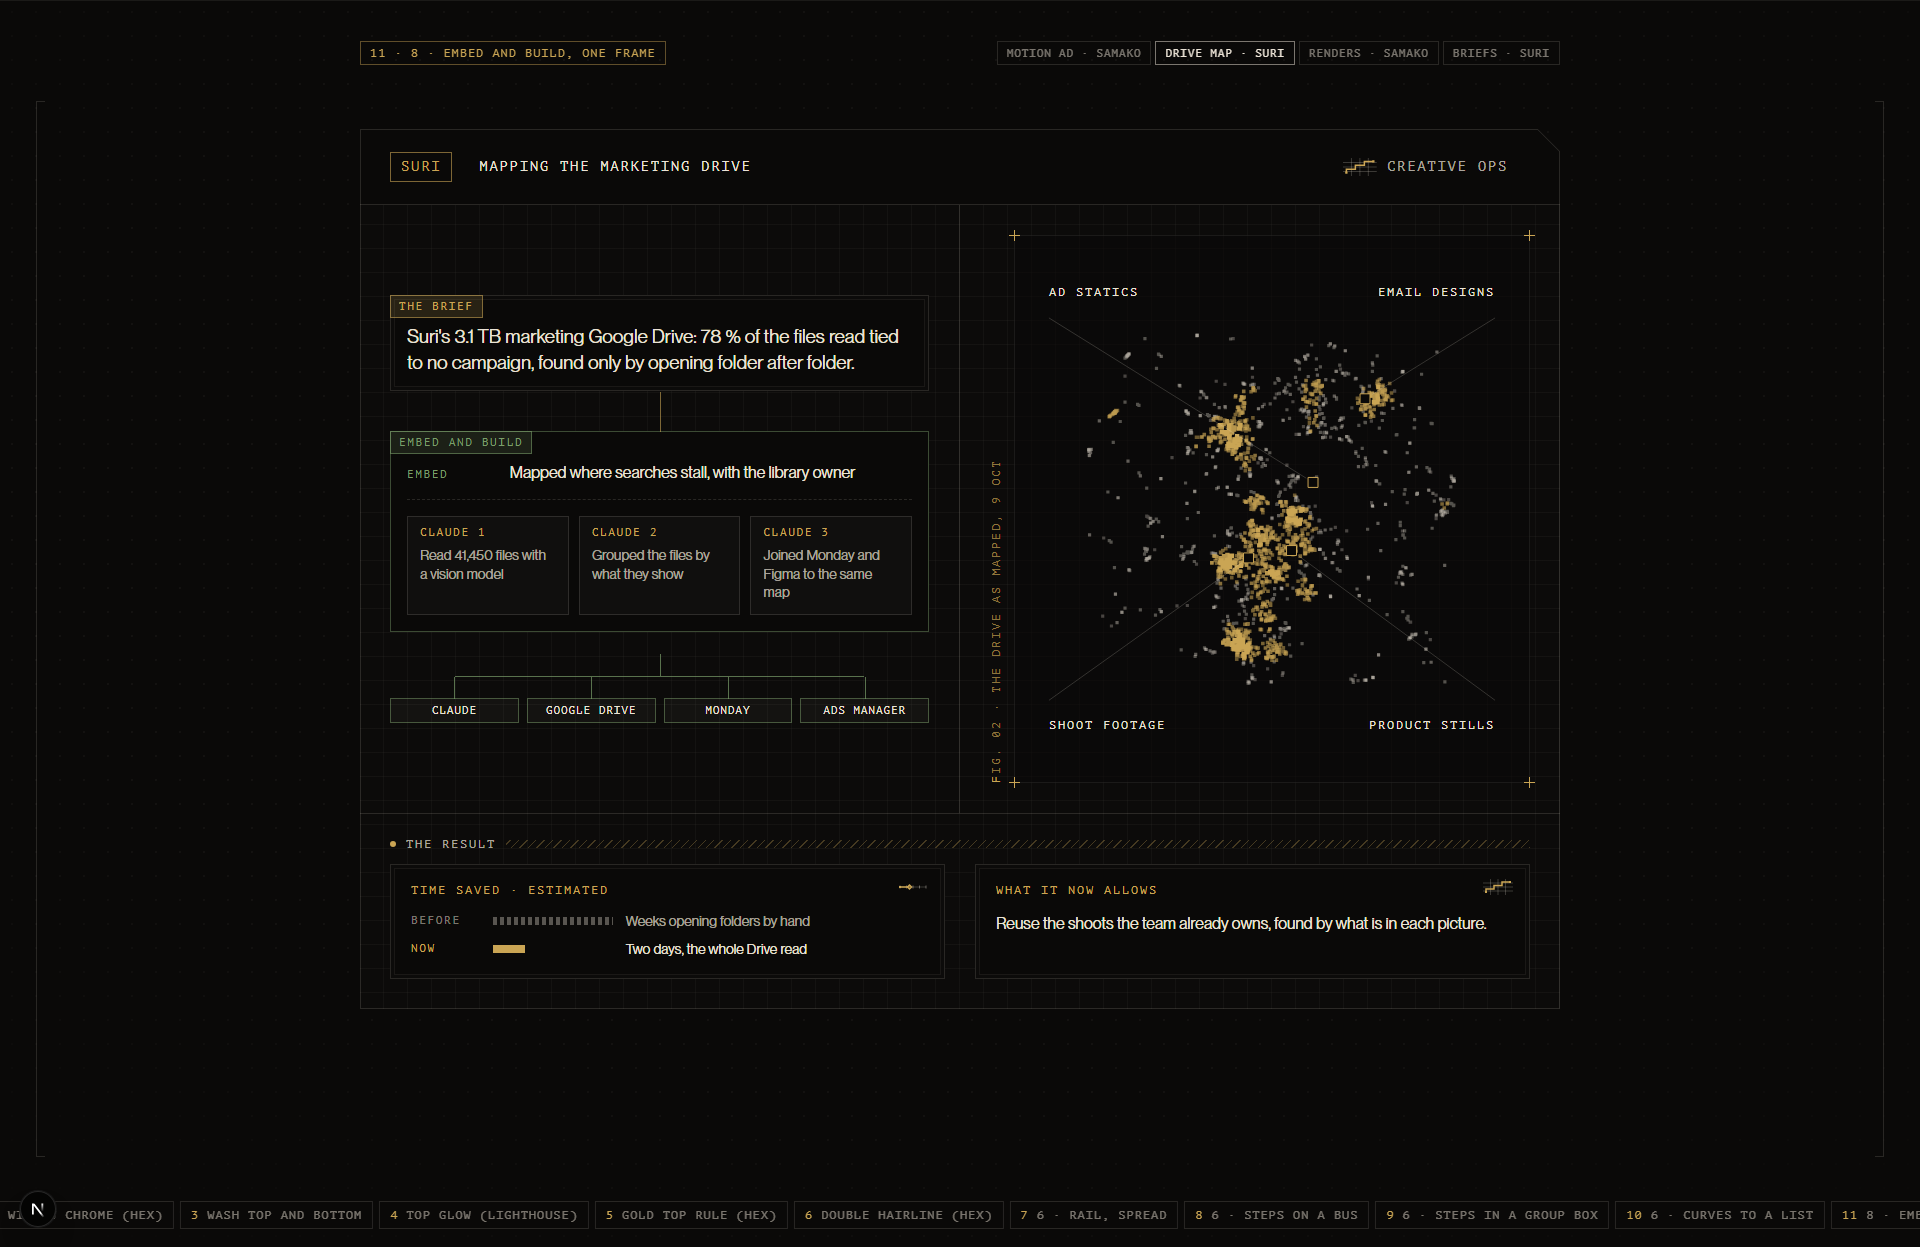
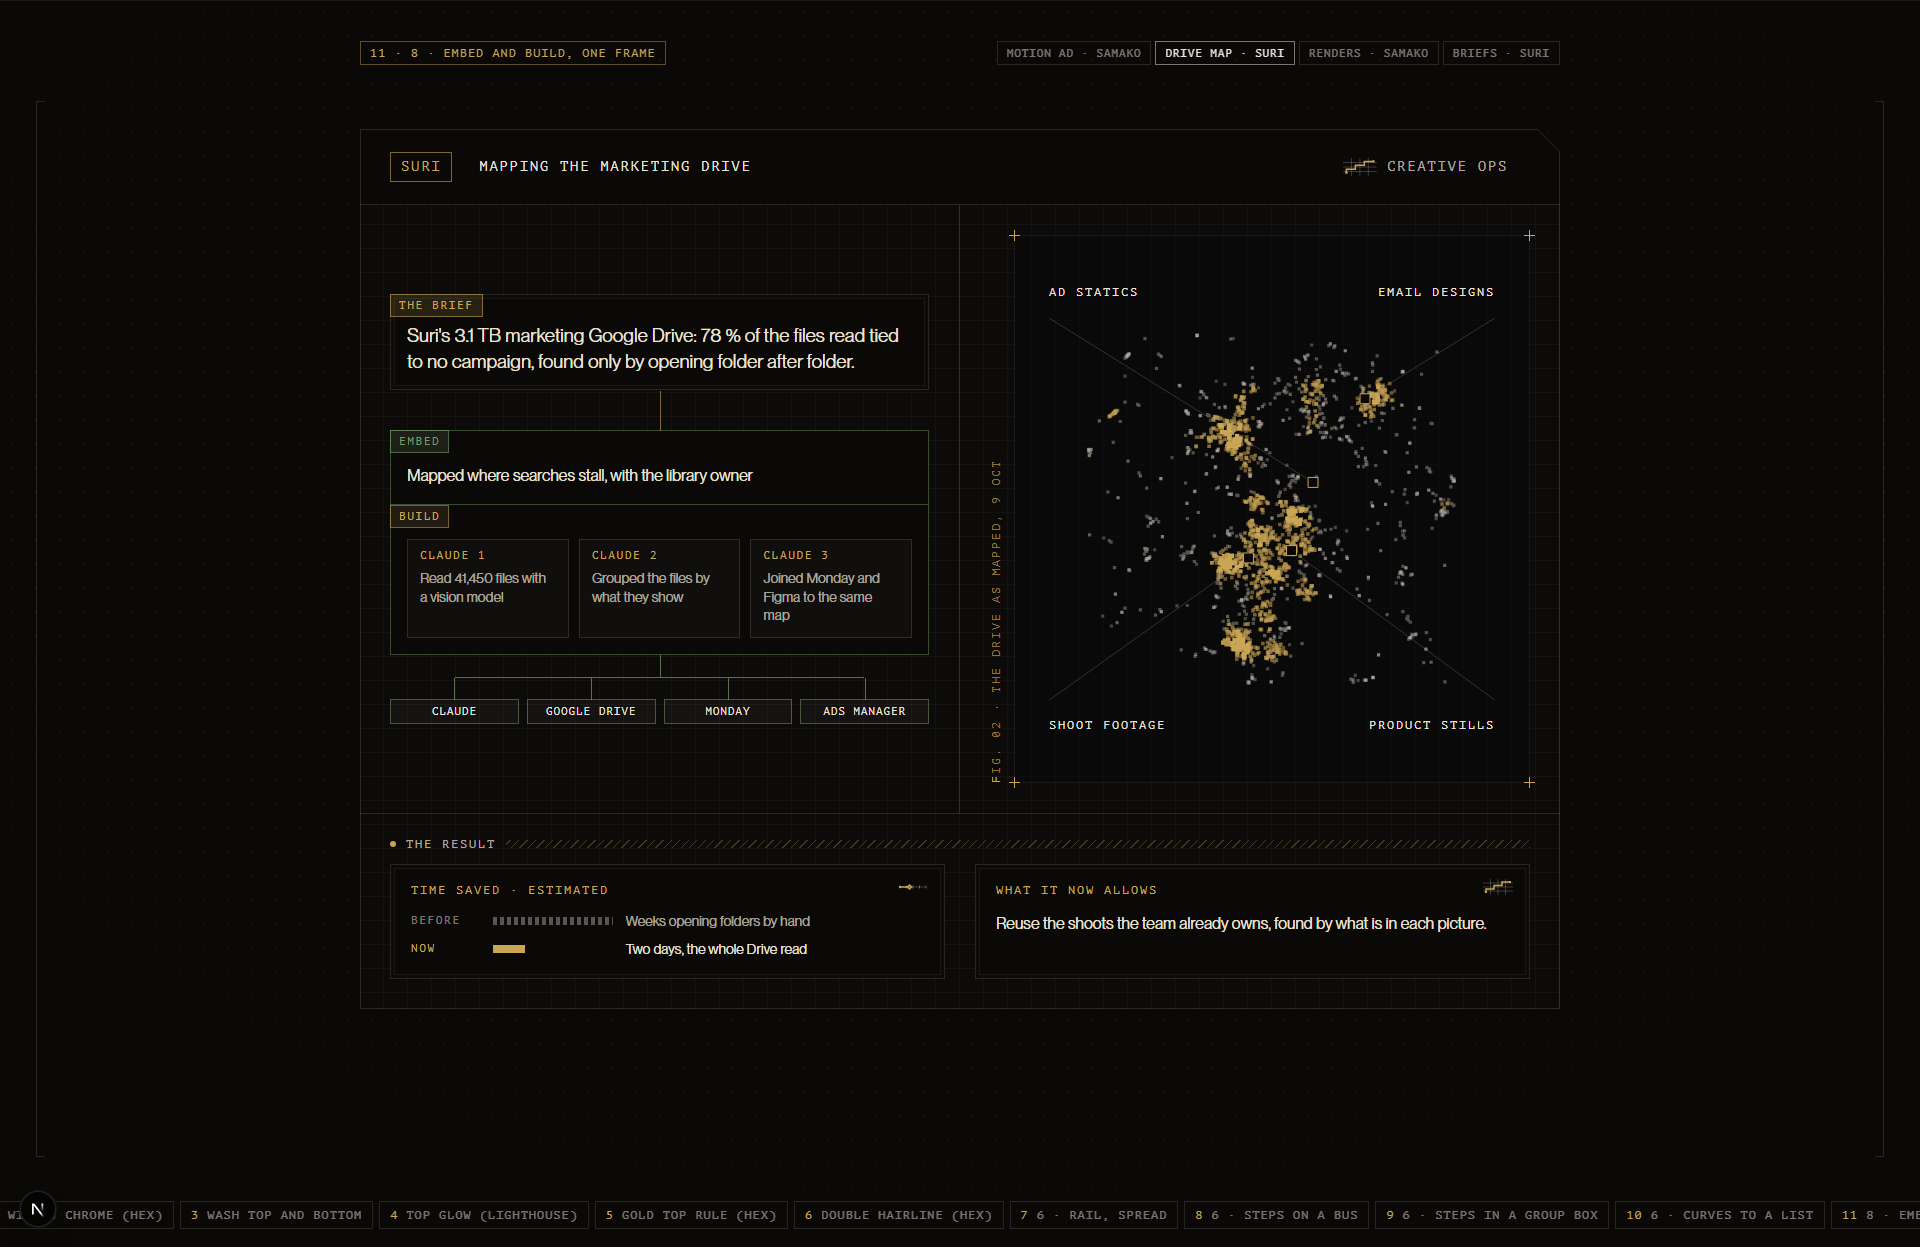
feat(test): card-skins 11, Embed above Build in the one frame, the drop welded to it

diff --git a/app/(internal)/test/card-skins/LeftPanels.tsx b/app/(internal)/test/card-skins/LeftPanels.tsx
@@ -206,19 +206,23 @@ function Unified({ job, tools }: { job: Job; tools: readonly string[] }) {
   return (
     <>
       <div className="pk-c__box pk-l__unit">
-        <p className="pk-c__tab">Embed and build</p>
-        <p className="pk-l__unit-embed">
-          <b>Embed</b>
-          {job.embed}
-        </p>
-        <ol className="pk-l__cols" aria-label="Claude did">
-          {job.did.map((t, i) => (
-            <li key={t}>
-              <span className="pk-l__col-tab">Claude {i + 1}</span>
-              <span className="pk-l__col-text">{t}</span>
-            </li>
-          ))}
-        </ol>
+        <section className="pk-l__part">
+          <p className="pk-l__part-tab" data-kind="embed">
+            Embed
+          </p>
+          <p className="pk-l__part-line">{job.embed}</p>
+        </section>
+        <section className="pk-l__part">
+          <p className="pk-l__part-tab">Build</p>
+          <ol className="pk-l__cols" aria-label="Claude did">
+            {job.did.map((t, i) => (
+              <li key={t}>
+                <span className="pk-l__col-tab">Claude {i + 1}</span>
+                <span className="pk-l__col-text">{t}</span>
+              </li>
+            ))}
+          </ol>
+        </section>
       </div>
       <ul className="pk-l__fan" aria-label="Plugs into">
         {tools.map((t) => (

diff --git a/app/(internal)/test/card-skins/left-panels.css b/app/(internal)/test/card-skins/left-panels.css
@@ -400,3 +400,45 @@
   height: 22px;
   background: rgba(var(--pk-green-rgb), 0.7);
 }
+
+/* U1 (owner, 2026-10-12): the frame in two parts, Embed above Build, each
+   labelled at its own top-left corner, a full-width rule between; the drop
+   to the tools starts on the frame's bottom edge */
+.pk-l .pk-l__unit {
+  gap: 0;
+  padding: 0;
+}
+.pk-l__part {
+  position: relative;
+  padding: 34px 16px 16px;
+}
+.pk-l__part + .pk-l__part {
+  border-top: 1px solid rgba(var(--pk-green-rgb), 0.45);
+}
+.pk-l__part-tab {
+  position: absolute;
+  top: -1px;
+  left: -1px;
+  padding: 5px 8px;
+  border: 1px solid rgba(var(--pk-gold-rgb), 0.5);
+  background: rgba(var(--pk-gold-rgb), 0.12);
+  font: 400 calc(var(--pk-t-mono) * 0.92) / 1 var(--pk-mono);
+  letter-spacing: 0.15em;
+  text-transform: uppercase;
+  color: var(--pk-gold);
+}
+.pk-l__part-tab[data-kind="embed"] {
+  border-color: rgba(var(--pk-green-rgb), 0.55);
+  background: rgba(var(--pk-green-rgb), 0.16);
+  color: var(--pk-green);
+}
+.pk-l__part + .pk-l__part .pk-l__part-tab {
+  top: 0;
+}
+.pk-l__part-line {
+  font: 400 var(--pk-t-body) / 1.4 var(--pk-sans);
+  color: var(--pk-ink);
+}
+.pk-l--unified .pk-l__words > .pk-l__fan {
+  margin-top: calc(-1 * var(--pk-gap-v));
+}
